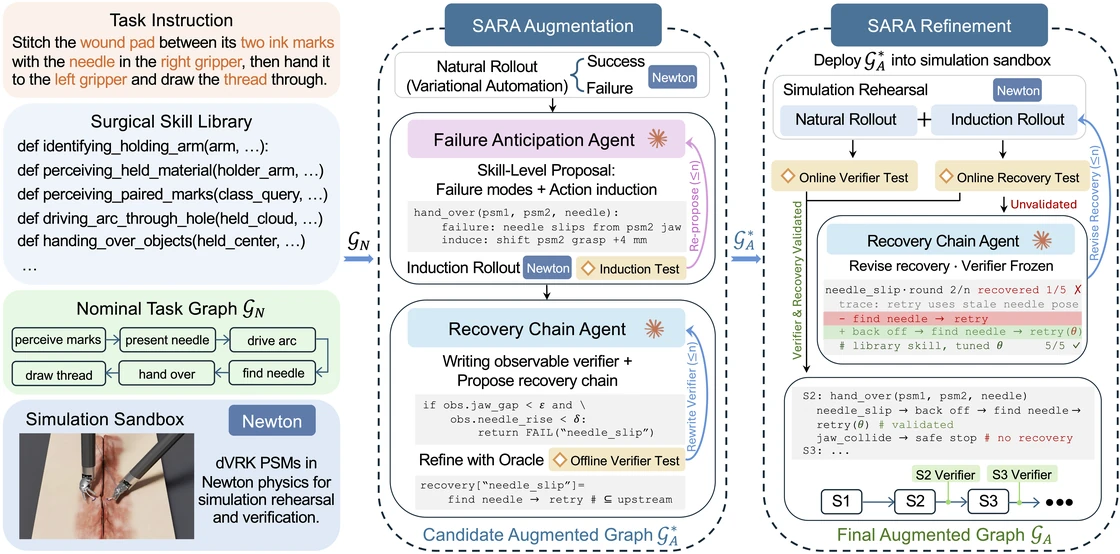
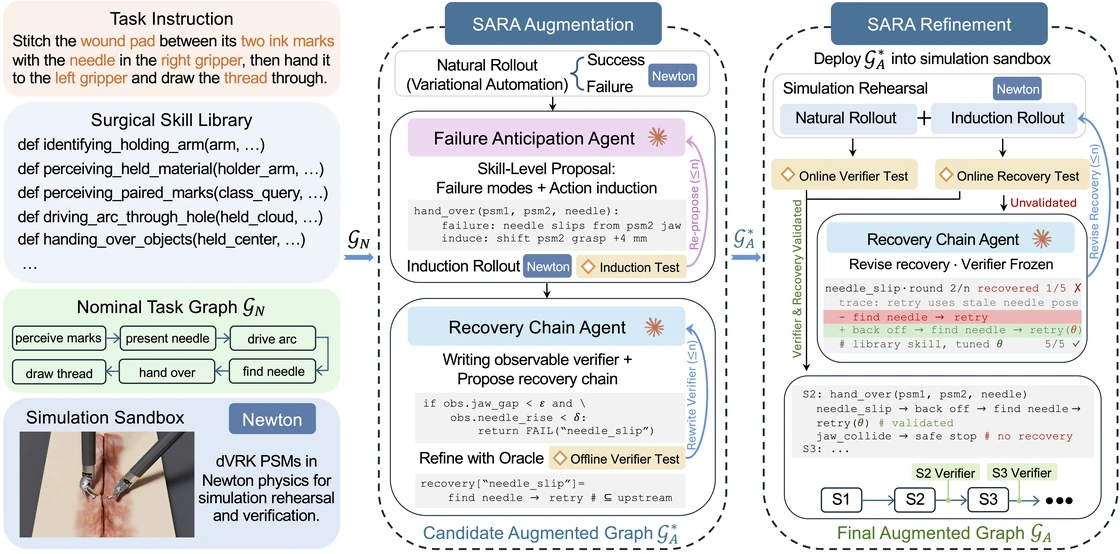
Update SARA pipeline figure

diff --git a/index.html b/index.html
@@ -57,7 +57,7 @@
 <section class="section method-section" id="method"><div class="container">
 <p class="method-question">Can emerging coding agents deliver augmented dexterity across diverse surgical tasks and remain reliable when failures occur?</p>
 <div class="section-heading"><h2>Method</h2></div>
-<figure class="research-figure"><button class="figure-zoom" type="button" data-image="static/images/sara_pipeline.png?v=23565d1aefe4" aria-label="Enlarge the SARA method pipeline"><img src="static/images/sara_pipeline-1120.webp?v=d8663c4358d4" srcset="static/images/sara_pipeline-1120.webp?v=d8663c4358d4 1120w, static/images/sara_pipeline-2240.webp?v=807407f1055d 2240w" sizes="(max-width: 760px) calc(100vw - 36px), (max-width: 1184px) calc(100vw - 64px), 1120px" alt="SARA agentic harness: Failure Anticipation and Recovery Chain agents augment a nominal task graph using natural and induced Newton rollouts, validate observable verifiers against privileged oracles, and refine recovery chains to produce the final augmented graph." width="2240" height="1108" loading="lazy" decoding="async"><span class="zoom-hint">Enlarge figure ↗</span></button><figcaption><strong>SARA:</strong> Two specialized agents coordinate the augmentation and refinement of a nominal task graph <math aria-label="G subscript N"><msub><mi>𝒢</mi><mi>N</mi></msub></math>. During <em>SARA Augmentation</em>, the <em>Failure Anticipation</em> agent proposes skill-level failure modes and actions to induce them in the Newton sandbox. The <em>Recovery Chain</em> agent analyzes natural and induced rollouts, synthesizes observable verifiers evaluated against privileged oracles, and proposes candidate recovery chains, yielding a candidate augmented graph <math aria-label="G subscript A star"><msubsup><mi>𝒢</mi><mi>A</mi><mo>∗</mo></msubsup></math>. During <em>SARA Refinement</em>, the candidate graph is rehearsed in the sandbox, and ineffective recovery chains are iteratively revised by tracing upstream skills and tuning adjustable parameters. Only validated verifiers and recovery chains are retained in the final augmented graph <math aria-label="G subscript A"><msub><mi>𝒢</mi><mi>A</mi></msub></math> for task execution with failure recovery.</figcaption></figure>
+<figure class="research-figure"><button class="figure-zoom" type="button" data-image="static/images/sara_pipeline.png?v=d9c4aa31290f" aria-label="Enlarge the SARA method pipeline"><img src="static/images/sara_pipeline-1120.webp?v=d165cfbce05d" srcset="static/images/sara_pipeline-1120.webp?v=d165cfbce05d 1120w, static/images/sara_pipeline-2240.webp?v=8b9cfbffde13 2240w" sizes="(max-width: 760px) calc(100vw - 36px), (max-width: 1184px) calc(100vw - 64px), 1120px" alt="SARA agentic harness: Failure Anticipation and Recovery Chain agents augment a nominal task graph using natural and induced Newton rollouts, validate observable verifiers against privileged oracles, and refine recovery chains to produce the final augmented graph." width="2240" height="1108" loading="lazy" decoding="async"><span class="zoom-hint">Enlarge figure ↗</span></button><figcaption><strong>SARA:</strong> Two specialized agents coordinate the augmentation and refinement of a nominal task graph <math aria-label="G subscript N"><msub><mi>𝒢</mi><mi>N</mi></msub></math>. During <em>SARA Augmentation</em>, the <em>Failure Anticipation</em> agent proposes skill-level failure modes and actions to induce them in the Newton sandbox. The <em>Recovery Chain</em> agent analyzes natural and induced rollouts, synthesizes observable verifiers evaluated against privileged oracles, and proposes candidate recovery chains, yielding a candidate augmented graph <math aria-label="G subscript A star"><msubsup><mi>𝒢</mi><mi>A</mi><mo>∗</mo></msubsup></math>. During <em>SARA Refinement</em>, the candidate graph is rehearsed in the sandbox, and ineffective recovery chains are iteratively revised by tracing upstream skills and tuning adjustable parameters. Only validated verifiers and recovery chains are retained in the final augmented graph <math aria-label="G subscript A"><msub><mi>𝒢</mi><mi>A</mi></msub></math> for task execution with failure recovery.</figcaption></figure>
 </div></section>
 <section class="section results-section" id="simulation"><div class="container">
 <div class="section-heading"><h2>Simulation</h2><p>Eight surgical tasks in Newton-based simulation.</p></div>

diff --git a/README.md b/README.md
@@ -119,8 +119,8 @@ sequences. Responsive 1120px/2240px WebP previews (approximately 141/335 KB) loa
 eagerly with high priority instead of the 9.7 MB PNG. The previews preserve the
 source color profile. Clicking first shows the cached preview, then replaces it
 with the original full-resolution image once loaded. Method also uses responsive
-1120px/2240px WebP previews (approximately 132/307 KB), loaded lazily with
-asynchronous decoding; its 8725×4315 PNG is fetched when enlarged. Both research figures have
+1120px/2240px WebP previews (approximately 132/308 KB), loaded lazily with
+asynchronous decoding; its 8729×4318 PNG is fetched when enlarged. Both research figures have
 full-width, 16px explanatory captions with an emphasized opening title. The captions
 use native inline MathML for the nominal, candidate augmented, and final augmented
 graphs, without a separate math-rendering script. Agent names and method phases are
@@ -192,7 +192,7 @@ All other intervals show normal execution.
 
 - Overview original: `static/images/abstract.png` (5545×3313, unchanged; loaded on zoom and used by social metadata).
 - Overview previews: `static/images/abstract-1120.webp` and `static/images/abstract-2240.webp` (responsive, content-versioned URLs).
-- Method original: `static/images/sara_pipeline.png` (8725×4315, preserved for zoom).
+- Method original: `static/images/sara_pipeline.png` (8729×4318, preserved for zoom).
 - Method previews: `static/images/sara_pipeline-1120.webp` and `static/images/sara_pipeline-2240.webp` (responsive, content-versioned URLs).
 - Video posters: `static/images/posters/`.
 - Published physical videos: `static/videos_web/` (H.264, original resolution, fast-start MP4).
